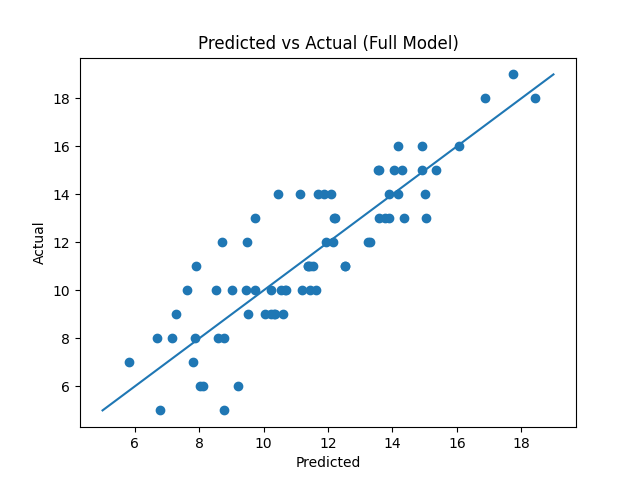
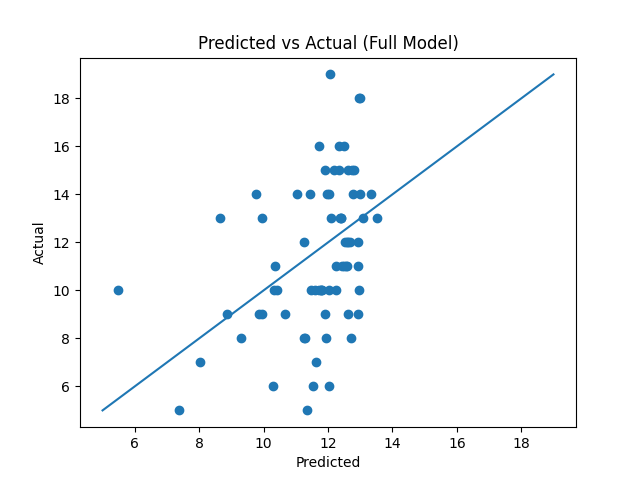
update assignment

diff --git a/assignments_02/project_02.py b/assignments_02/project_02.py
@@ -147,7 +147,7 @@ print("R2 : ", model.score(X_test, y_test))
 
 # features used for prediction
 feature_cols = ["failures", "Medu", "Fedu", "studytime", "higher", "schoolsup",
-                "internet", "sex", "freetime", "activities", "traveltime", "G1"]
+                "internet", "sex", "freetime", "activities", "traveltime"]
 X1 = data_clean[feature_cols].values
 y1 = data_clean["G3"].values
 
@@ -221,6 +221,27 @@ Summarize:
 
 
 # --- Neglected Feature: The Power of G1 ---
+
+# features used for prediction
+feature_cols_g1 = ["failures", "Medu", "Fedu", "studytime", "higher", "schoolsup",
+                "internet", "sex", "freetime", "activities", "traveltime", "G1"]
+X2 = data_clean[feature_cols_g1].values
+y2 = data_clean["G3"].values
+
+# train/test split(80/20)
+X_train2, X_test2, y_train2, y_test2 = train_test_split(X2, y2, test_size=0.2, random_state=42)
+
+# create and train linear regression model
+model_2 = LinearRegression()
+model_2.fit(X_train2, y_train2)
+
+# make predictions on test set
+y_pred2 = model_2.predict(X_test2)
+
+# model performance (R2)
+print("R2 with G1 (test): ", model_2.score(X_test2, y_test2))
+print("R2 with G1 (train): ", model_2.score(X_train2, y_train2))
+
 
 """
 A high R2 does not mean G1 causes G3, it only shows theay are strongly related.